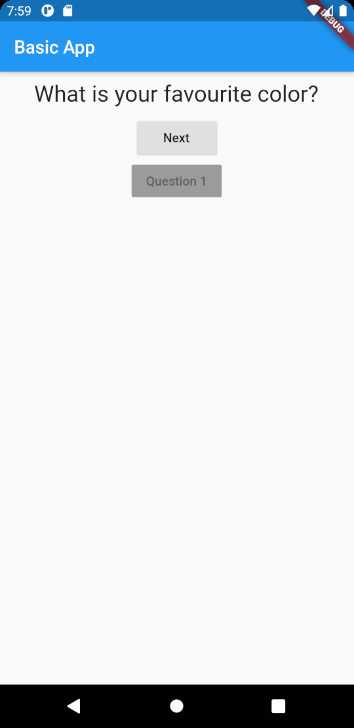
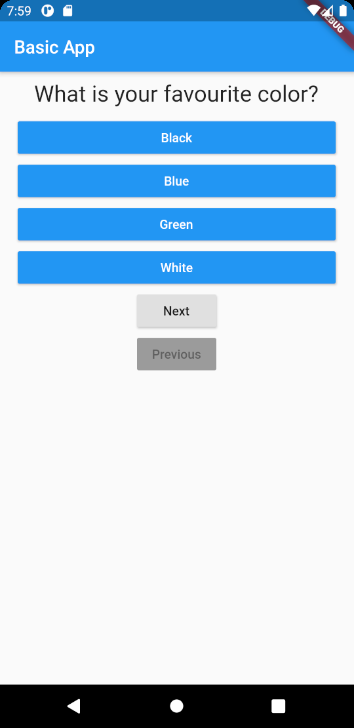
Added Styling to options and dictionary like data structure used

Changed region(s): [[0.0311, 0.1511, 0.9633, 0.5137]]

diff --git a/lib/main.dart b/lib/main.dart
@@ -1,16 +1,37 @@
 import 'package:counter_app/question.dart';
 import 'package:flutter/material.dart';
+import 'package:counter_app/Option.dart';
 
 void main() => runApp(MyApp());
 
-class MyApp extends StatefulWidget{
-
+class MyApp extends StatefulWidget {
   @override
   State<StatefulWidget> createState() => _MyAppState();
 }
 
-class _MyAppState extends State<MyApp>{
-  var _questions = ['What is your favourite color?', 'What is your favourite Animal?'];
+class _MyAppState extends State<MyApp> {
+  void _decrement() {
+    setState(() => {_count--});
+  }
+
+  void _increment() {
+    setState(() => _count++);
+  }
+
+  var _questions = [
+    {
+      'question': 'What is your favourite color?',
+      'option': ['Black', 'Blue', 'Green', 'White']
+    },
+    {
+      'question': 'What is your favourite animal?',
+      'option': ['Tiger', 'Lion', 'Monkey', 'Human']
+    },
+    {
+      'question': 'What is your favourite food?',
+      'option': ['Biryani', 'Parotta', 'Dosa', 'Idli']
+    }
+  ];
   var _count = 0;
   @override
   Widget build(BuildContext context) {
@@ -21,9 +42,17 @@ class _MyAppState extends State<MyApp>{
         ),
         body: Column(
           children: [
-            Question(_questions[_count]),
-            RaisedButton(child: Text('Next'), onPressed: () => setState( () => _count++ )),
-            RaisedButton(child: Text(_count==0 ? 'Question 1': 'Question 2'), )
+            Question(_questions[_count]['question']),
+            Option((_questions[_count]['option'] as List<String>)[0]),
+            Option((_questions[_count]['option'] as List<String>)[1]),
+            Option((_questions[_count]['option'] as List<String>)[2]),
+            Option((_questions[_count]['option'] as List<String>)[3]),
+            RaisedButton(
+                child: Text('Next'),
+                onPressed: _count != _questions.length - 1 ? _increment : null),
+            RaisedButton(
+                child: Text('Previous'),
+                onPressed: _count > 0 ? _decrement : null)
           ],
         ),
       ),

diff --git a/lib/Option.dart b/lib/Option.dart
@@ -1,0 +1,17 @@
+import 'package:flutter/material.dart';
+
+class Option extends StatelessWidget {
+  String option;
+  Option(this.option);
+  Widget build(BuildContext context) {
+    return Container(
+        width: double.infinity,
+        padding: EdgeInsets.symmetric(horizontal: 20),
+        child: RaisedButton(
+          child: Text(option),
+          onPressed: () => null,
+          color: Colors.blue,
+          textColor: Colors.white,
+        ));
+  }
+}

diff --git a/README.md b/README.md
@@ -42,4 +42,9 @@
 - `textAlign` argument takes an enum `TextAlign`. But since the Text widget takes the size only needed for text,
 it wont work unless we put it in a container and add some width to the text.
 
+### Dart features
+- enums
+- multiple constructors
+- Map or {} (like dictionary in python)
+
 ![Before Click](output.png)
